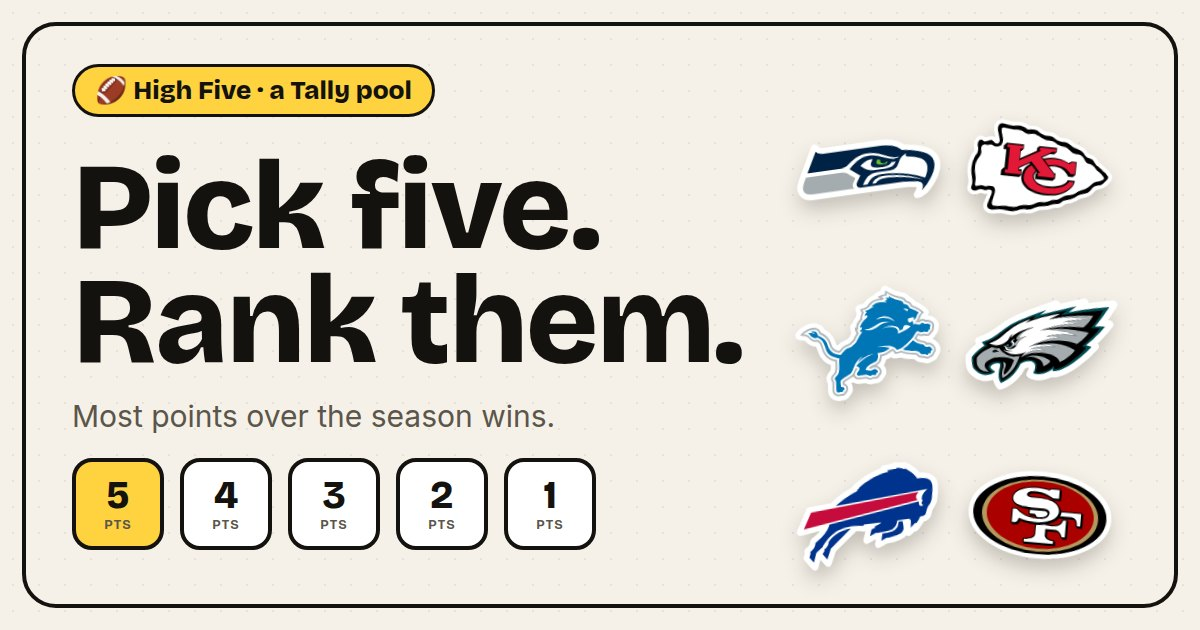
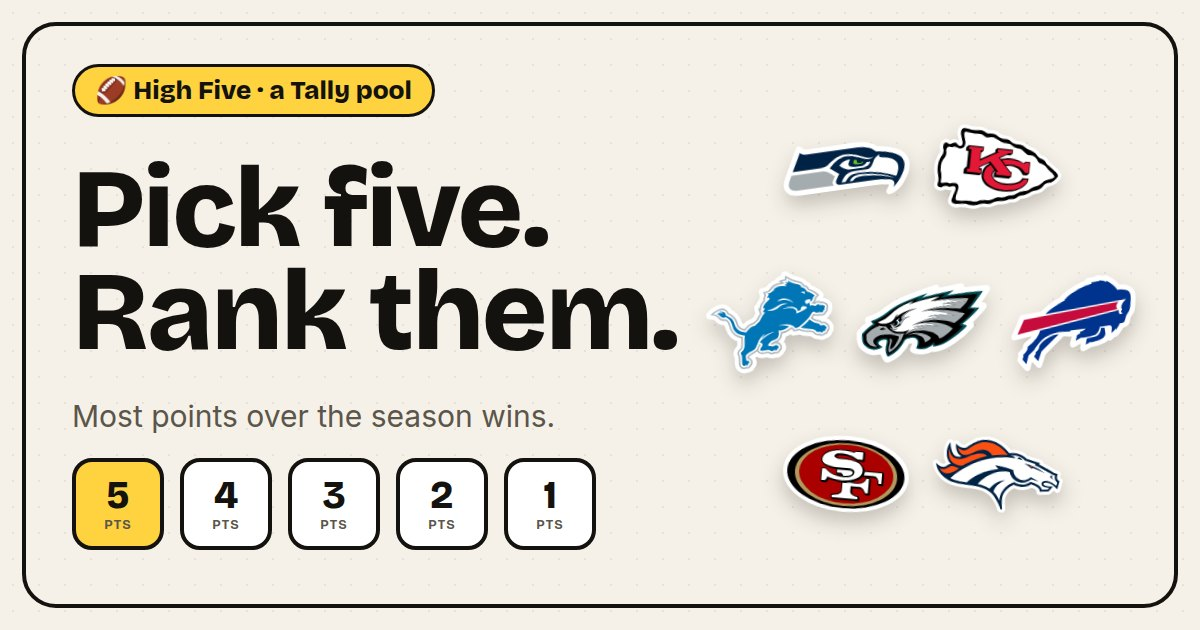
Put the Broncos on the card
Seven stickers do not wrap into a tidy shape, and at this card's height a
fourth row falls off the bottom edge entirely — which is where the Broncos
went on the first try, rendered but invisible. The cluster is laid out as
explicit 2-3-2 rows instead, which packs seven without stranding one, and the
headline is sized and pinned to its own column so the wider artwork cannot
push it into a wrap.

Claude-Session: https://claude.ai/code/session_01Aue8HapFCaUsLtZJCRy6xb

diff --git a/scripts/build-og.ts b/scripts/build-og.ts
@@ -8,7 +8,16 @@ import { chromium } from "@playwright/test";
 const ROOT = path.resolve(new URL("..", import.meta.url).pathname);
 const font = (p: string) => `file://${path.join(ROOT, "node_modules", p)}`;
 const logo = (abbr: string, ext = "svg") => `file://${path.join(ROOT, "public/logos", `${abbr}.${ext}`)}`;
-const stickers: [string, number][] = [["SEA", -8], ["KC", 6], ["DET", -4], ["PHI", 7], ["BUF", -6], ["SF", 5]];
+/**
+ * Laid out as explicit rows rather than left to wrap: 2-3-2 packs seven into a balanced cluster,
+ * where wrapping would leave a seventh stranded on a row of its own — or, at this card's height,
+ * push it off the bottom edge entirely.
+ */
+const stickerRows: [string, number][][] = [
+  [["SEA", -8], ["KC", 6]],
+  [["DET", -4], ["PHI", 7], ["BUF", -6]],
+  [["SF", 5], ["DEN", -5]],
+];
 
 interface Card {
   file: string;
@@ -50,7 +59,7 @@ const template = (c: Card) => `<!doctype html><html><head><style>
 html,body{margin:0}
 body{width:1200px;height:630px;background:#F6F1E8;background-image:radial-gradient(rgba(20,18,15,.07) 1.5px,transparent 1.5px);background-size:26px 26px;font-family:InterV,system-ui,sans-serif;color:#14120F;position:relative;overflow:hidden}
 .chip{position:absolute;left:72px;top:64px;display:inline-flex;align-items:center;gap:10px;border:3px solid #14120F;border-radius:999px;background:#FFD23F;padding:8px 20px;font-family:Bricolage;font-weight:800;font-size:26px}
-h1{position:absolute;left:72px;top:150px;margin:0;width:700px;font-family:Bricolage;font-weight:800;font-size:124px;line-height:.92;letter-spacing:-.02em;font-variation-settings:"wdth" 96}
+h1{position:absolute;left:72px;top:158px;margin:0;width:620px;white-space:nowrap;font-family:Bricolage;font-weight:800;font-size:112px;line-height:.92;letter-spacing:-.02em;font-variation-settings:"wdth" 96}
 h1.sm{font-size:88px;top:182px;white-space:nowrap}
 .mark{position:absolute;right:110px;top:205px;width:300px;height:300px;filter:drop-shadow(0 16px 18px rgba(20,18,15,.25))}
 p{position:absolute;left:72px;top:398px;margin:0;width:620px;font-size:30px;line-height:1.25;color:#5B554B}
@@ -59,9 +68,10 @@ p{position:absolute;left:72px;top:398px;margin:0;width:620px;font-size:30px;line
 .b.top{background:#FFD23F}
 .b .n{font-size:38px}
 .b .u{margin-top:4px;font-size:13px;font-weight:700;letter-spacing:.08em;color:#5B554B}
-.row{position:absolute;right:56px;top:96px;width:380px;display:flex;flex-wrap:wrap;gap:22px;justify-content:center;align-content:flex-start}
-.s{width:150px;height:150px;display:flex;align-items:center;justify-content:center;filter:drop-shadow(0 10px 10px rgba(20,18,15,.22))}
-.s img{max-width:150px;max-height:150px}
+.grid{position:absolute;right:56px;top:104px;width:444px;display:flex;flex-direction:column;gap:20px}
+.line{display:flex;gap:20px;justify-content:center}
+.s{width:132px;height:132px;display:flex;align-items:center;justify-content:center;filter:drop-shadow(0 10px 10px rgba(20,18,15,.22))}
+.s img{max-width:132px;max-height:132px}
 .frame{position:absolute;inset:22px;border:4px solid #14120F;border-radius:34px;pointer-events:none}
 </style></head><body>
 <div class="frame"></div>
@@ -70,7 +80,11 @@ p{position:absolute;left:72px;top:398px;margin:0;width:620px;font-size:30px;line
 <p>${c.body}</p>
 ${c.ladder ? `<div class="ladder">${[5, 4, 3, 2, 1].map((n) => `<div class="b${n === 5 ? " top" : ""}"><span class="n">${n}</span><span class="u">PTS</span></div>`).join("")}</div>` : ""}
 ${c.art === "stickers"
-  ? `<div class="row">${stickers.map(([a, r]) => `<div class="s" style="transform:rotate(${r}deg)"><img src="${logo(a, existsSync(path.join(ROOT, "public/logos", a + ".svg")) ? "svg" : "png")}"></div>`).join("")}</div>`
+  ? `<div class="grid">${stickerRows
+      .map((line) => `<div class="line">${line
+        .map(([a, r]) => `<div class="s" style="transform:rotate(${r}deg)"><img src="${logo(a, existsSync(path.join(ROOT, "public/logos", a + ".svg")) ? "svg" : "png")}"></div>`)
+        .join("")}</div>`)
+      .join("")}</div>`
   : `<img class="mark" src="file://${path.join(ROOT, "public/icon.svg")}">`}
 </body></html>`;
 
